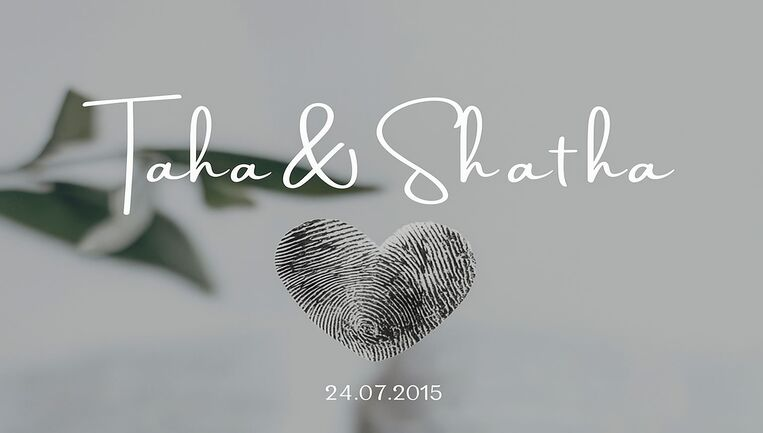
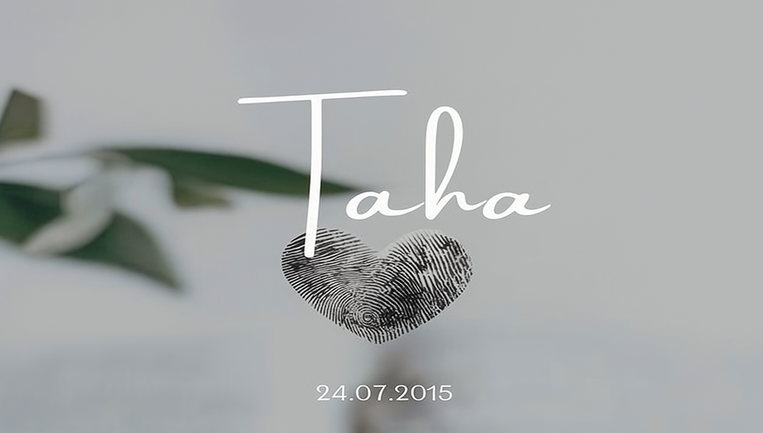
ن

Changed region(s): [[0.0, 0.1801, 0.8742, 0.8406], [0.422, 0.8707, 0.6029, 0.9307]]

diff --git a/index.html b/index.html
@@ -6,16 +6,16 @@
 	<head>
 	<meta charset="utf-8">
 	<meta http-equiv="X-UA-Compatible" content="IE=edge">
-	<title>Taha ❤ Shatha - 24.07.2025</title>
+	<title>Taha ❤  - 24.07.2025</title>
 	<meta name="viewport" content="width=device-width, initial-scale=1">
 	<meta name="description" content="نحن سنعقد زواجنا - في التاريخ 24 يوليو 2025 ونود أن تكون جزءًا من ذلك." />
-	<meta name="keywords" content="Taha,Shatha,wedding,website,rsvp" />
-	<meta name="author" content="Taha & Shatha" />
+	<meta name="keywords" content="Taha,,wedding,website,rsvp" />
+	<meta name="author" content="Taha & " />
 
   	<!-- Facebook and Twitter integration -->
 	<meta property="og:image" content="images/og.jpg"/>
-	<meta property="og:site_name" content="Taha  ❤ Shatha - 24.07.2025">
-    <meta property="og:title" content="Taha ❤ Shatha - 24.07.2025">
+	<meta property="og:site_name" content="Taha دعوة عقد زفاف  ❤   - 24.07.2025">
+    <meta property="og:title" content="Taha دعوة عقد زفاف  ❤   - 24.07.2025">
     <meta property="og:description" content="نحن سنعقد زواجنا - التاريخ  24 يوليو 2025 ونود أن تكون جزءًا من ذلك.">
 	<!-- Size of image. Any size up to 300. Anything above 300px will not work in WhatsApp -->
     <meta property="og:image:width" content="300">
@@ -191,7 +191,7 @@
 									<div class="event-col">
 
 										<i class="icon-clock"></i>
-										<span>8:00  _ 10:00 PM</span>
+										<span>9:00  _ 11:00 PM</span>
 									</div>
 									<p>في <b>قاعات كتكت.</b></p>
 									<div class="custom-counter-wrapper">
@@ -338,7 +338,7 @@
   }
 
   createCountdown(moment.tz("2025-07-23 18:00", "Asia/Amman").toDate(), "hennaCountdown");
-createCountdown(moment.tz("2025-07-24 19:00", "Asia/Amman").toDate(), "weddingCountdown");
+createCountdown(moment.tz("2025-07-24 20:00", "Asia/Amman").toDate(), "weddingCountdown");
 </script>
 <script>
   function playVideo() {
